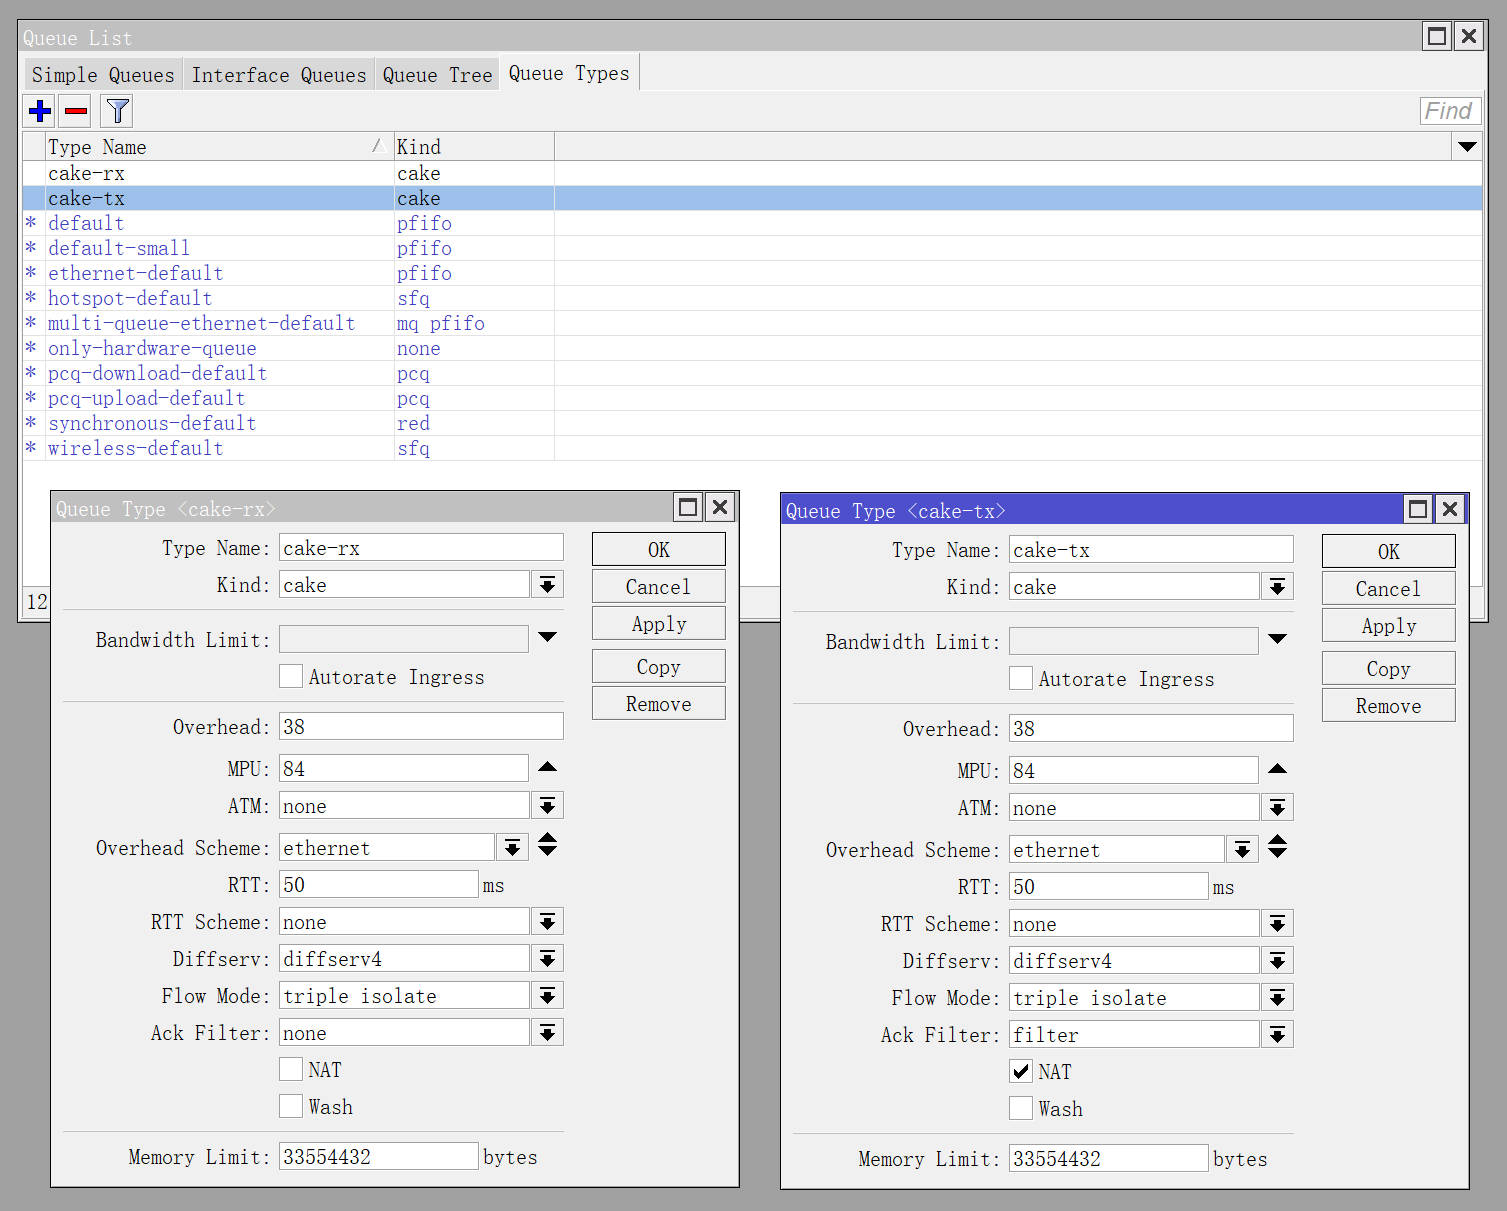
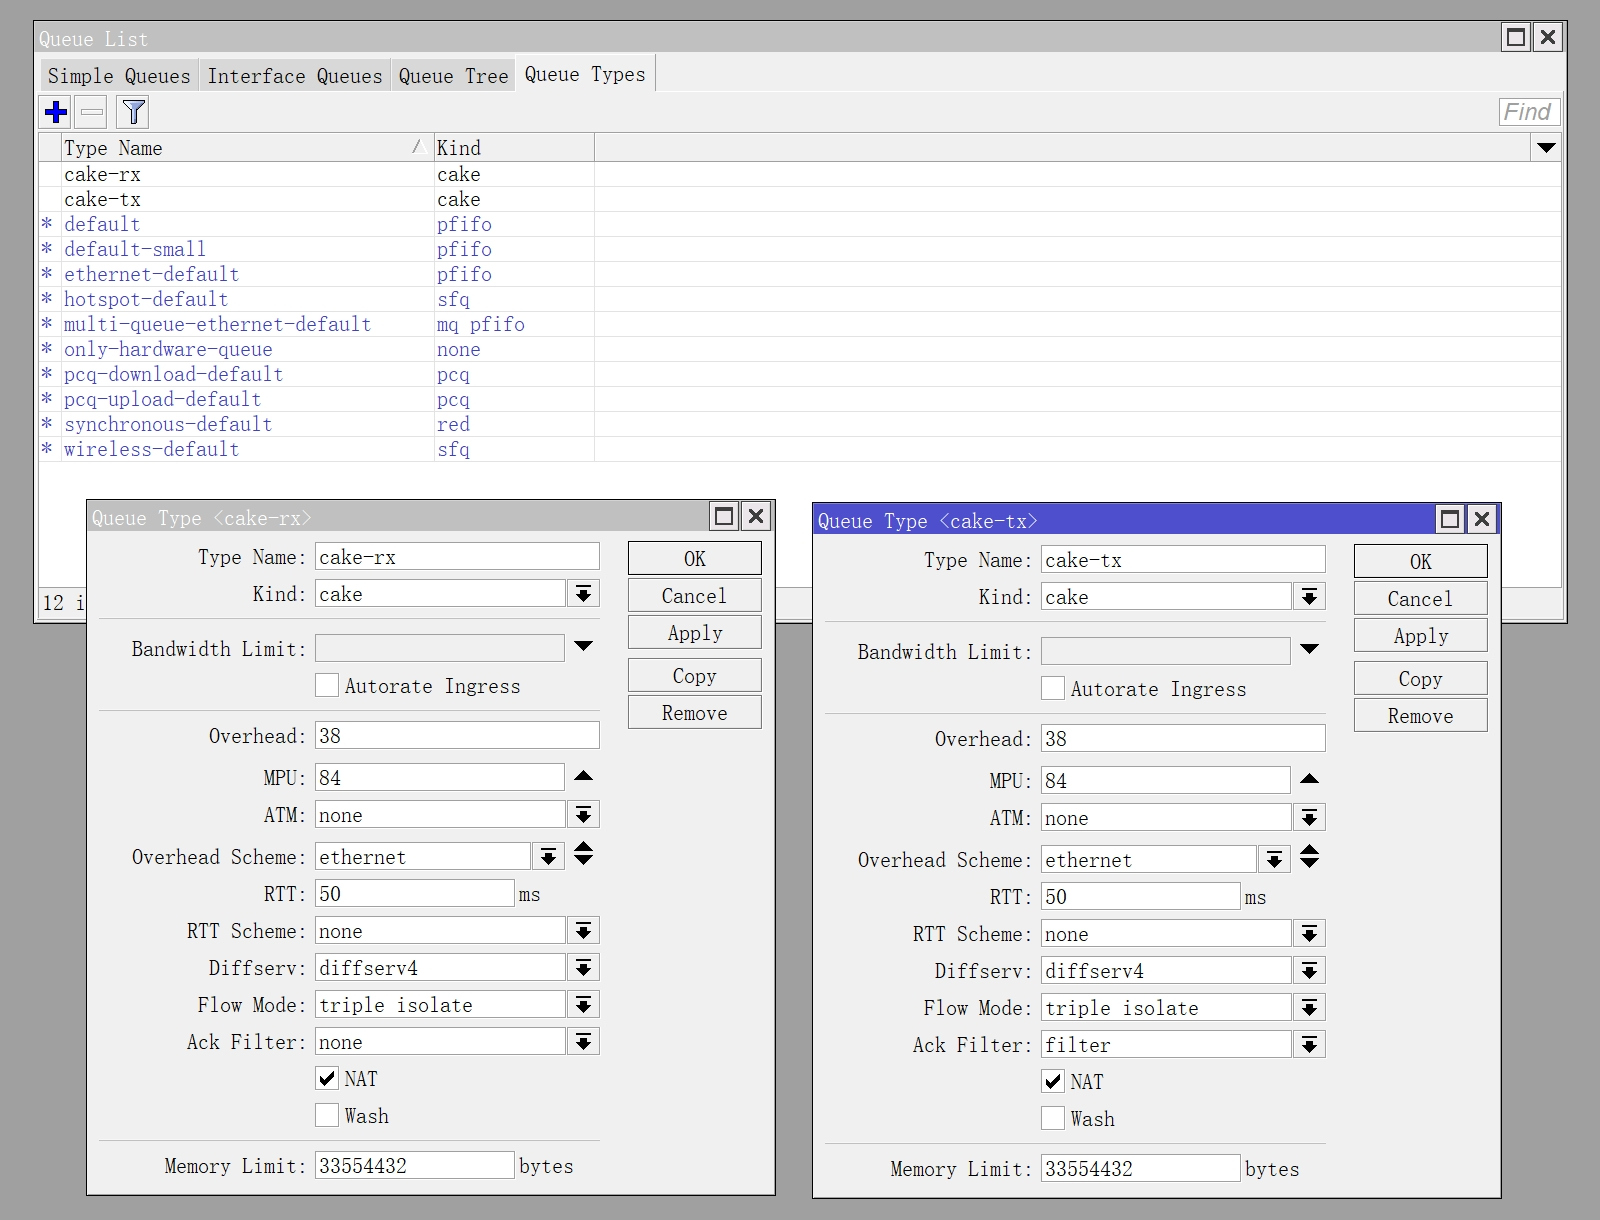
同步更新

Changed region(s): [[0.0, 0.0, 0.998, 1.0], [0.7797, 0.9472, 0.8421, 0.9777]]

diff --git a/06.设置流量整形.md b/06.设置流量整形.md
@@ -161,7 +161,7 @@ add name=cake-qos comment="qosconf: simple queue with CAKE" bucket-size=0.05/0.0
 
 ```bash
 /queue type
-add name=cake-rx kind=cake cake-diffserv=diffserv4 cake-flowmode=triple-isolate cake-memlimit=32M cake-rtt=50ms cake-overhead-scheme=ethernet cake-nat=no
+add name=cake-rx kind=cake cake-diffserv=diffserv4 cake-flowmode=triple-isolate cake-memlimit=32M cake-rtt=50ms cake-overhead-scheme=ethernet cake-nat=yes
 add name=cake-tx kind=cake cake-diffserv=diffserv4 cake-flowmode=triple-isolate cake-memlimit=32M cake-rtt=50ms cake-overhead-scheme=ethernet cake-nat=yes cake-ack-filter=filter
 
 /queue tree
